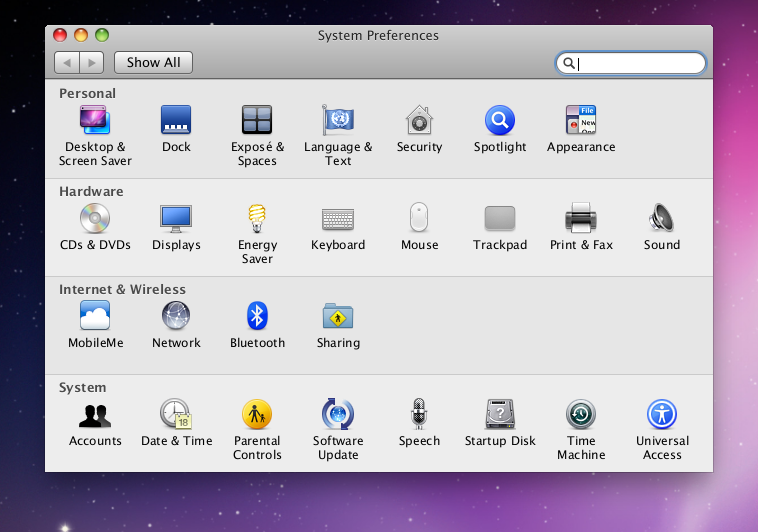
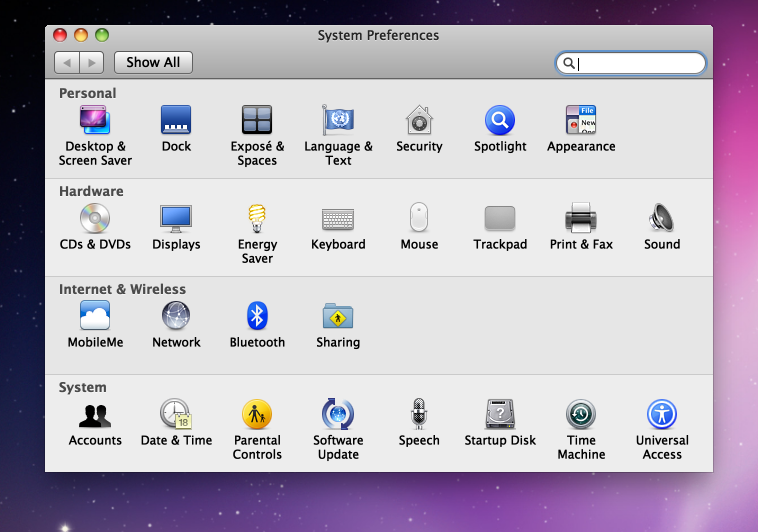
Text as Quartz draws it: the font smoothing dilation
From CoreGraphics: the default smoothing style on an LCD (AppleFontSmoothing
2) dilates the unhinted outlines by 0.0121 of the size across and 0.015125
up, 0.3 pixel at most; path_dilator_iterate moves each segment by its
direction. Done on the flattened outlines in AquaKit (cairo) and in the
shell's Qt programs (Aqua::drawText). Grey antialiasing still: the LCD
coverage and its blending are not read yet.

diff --git a/shell/src/aquakit/text.cpp b/shell/src/aquakit/text.cpp
@@ -3,7 +3,9 @@
 
 #include <pango/pangocairo.h>
 
+#include <algorithm>
 #include <cmath>
+#include <vector>
 
 namespace AK {
 
@@ -41,6 +43,67 @@ PangoLayout *layout(const std::string &text, const Font &font)
     return l;
 }
 
+// The layout's glyphs at the current point, as Quartz draws them with font smoothing: unhinted
+// outlines, dilated (CGFontCreateGlyphBitmap32, with the medium smoothing style's
+// CGFontGetDilationParametersForStyle: 0.0121 and 0.015125 of the size, 0.3 pixel at most). The
+// dilation is path_dilator_iterate's: every segment of the outline is moved, across by the first
+// outwards (to the right when it goes up, to the left when it goes down) and, when it runs along the
+// top of a stroke, up by twice the second; those along the bottom stay.
+void showLayout(cairo_t *cr, PangoLayout *l, double size)
+{
+    const double dx = std::min(0.3, 0.0121 * size), dy = std::min(0.3, 0.015125 * size);
+    struct Point {
+        double x, y;
+    };
+    cairo_save(cr);
+    cairo_set_tolerance(cr, 0.02);
+    pango_cairo_layout_path(cr, l);
+    cairo_path_t *flat = cairo_copy_path_flat(cr);
+    cairo_new_path(cr);
+    std::vector<std::vector<Point>> contours;
+    for (int i = 0; i < flat->num_data; i += flat->data[i].header.length) {
+        const cairo_path_data_t *d = &flat->data[i];
+        if (d->header.type == CAIRO_PATH_MOVE_TO)
+            contours.push_back({{d[1].point.x, d[1].point.y}});
+        else if (d->header.type == CAIRO_PATH_LINE_TO && !contours.empty())
+            contours.back().push_back({d[1].point.x, d[1].point.y});
+    }
+    cairo_path_destroy(flat);
+    // the way the outer contours turn: as Quartz's own orientation pass leaves them
+    double area = 0;
+    for (std::vector<Point> &c : contours) {
+        if (c.size() > 1 && c.front().x == c.back().x && c.front().y == c.back().y)
+            c.pop_back();
+        for (size_t i = 0; i < c.size(); ++i) {
+            const Point &a = c[i], &b = c[(i + 1) % c.size()];
+            area += a.x * b.y - b.x * a.y;
+        }
+    }
+    for (std::vector<Point> &c : contours) {
+        if (area > 0)
+            std::reverse(c.begin(), c.end());
+        bool first = true;
+        for (size_t i = 0; i < c.size(); ++i) {
+            const Point &a = c[i], &b = c[(i + 1) % c.size()];
+            const double across = b.x - a.x, down = b.y - a.y;
+            if (across == 0 && down == 0)
+                continue;
+            const double ox = down < 0 ? dx : down > 0 ? -dx : 0, oy = across > 0 ? 0 : across < 0 ? -2 * dy : -dy;
+            if (first)
+                cairo_move_to(cr, a.x + ox, a.y + oy);
+            else
+                cairo_line_to(cr, a.x + ox, a.y + oy);
+            cairo_line_to(cr, b.x + ox, b.y + oy);
+            first = false;
+        }
+        if (!first)
+            cairo_close_path(cr);
+    }
+    cairo_set_fill_rule(cr, CAIRO_FILL_RULE_WINDING);
+    cairo_fill(cr);
+    cairo_restore(cr);
+}
+
 } // namespace
 
 double textWidth(const std::string &text, const Font &font)
@@ -76,11 +139,11 @@ void drawWrappedText(cairo_t *cr, const std::string &text, const Rect &r, const 
     if (st.engraved) {
         cairo_set_source_rgba(cr, 1, 1, 1, st.engravedAlpha);
         cairo_move_to(cr, r.x, r.y + 1);
-        pango_cairo_show_layout(cr, l);
+        showLayout(cr, l, st.font.size);
     }
     st.color.set(cr);
     cairo_move_to(cr, r.x, r.y);
-    pango_cairo_show_layout(cr, l);
+    showLayout(cr, l, st.font.size);
     cairo_restore(cr);
     g_object_unref(l);
 }
@@ -130,11 +193,11 @@ void drawText(cairo_t *cr, const std::string &text, const Rect &r, const TextSty
     if (st.engraved) {
         cairo_set_source_rgba(cr, 1, 1, 1, st.engravedAlpha);
         cairo_move_to(cr, x, y + 1);
-        pango_cairo_show_layout(cr, l);
+        showLayout(cr, l, st.font.size);
     }
     st.color.set(cr);
     cairo_move_to(cr, x, y);
-    pango_cairo_show_layout(cr, l);
+    showLayout(cr, l, st.font.size);
     cairo_restore(cr);
     g_object_unref(l);
 }

diff --git a/shell/src/common/aqua.cpp b/shell/src/common/aqua.cpp
@@ -8,7 +8,12 @@
 #include "x11.h"
 
 #include <QApplication>
+#include <QFontMetricsF>
 #include <QMenu>
+#include <QPainter>
+#include <QPainterPath>
+#include <algorithm>
+#include <cmath>
 
 namespace Aqua {
 
@@ -71,6 +76,78 @@ void prepareMenu(QMenu *menu)
             a->menu()->setProperty("aquaMenu", menu->property("aquaMenu"));
             prepareMenu(a->menu());
         }
+}
+
+// Quartz's dilation of a glyph's outline (path_dilator_iterate): every segment is moved, across by
+// dx outwards (to the right when it goes up, to the left when it goes down) and, when it runs along
+// the top of a stroke, up by twice dy; those along the bottom stay. The outer contours turn the way
+// Quartz's own orientation pass leaves them.
+static QPainterPath dilatedOutline(const QPainterPath &glyphs, qreal dx, qreal dy)
+{
+    constexpr qreal fine = 16;   // the curves flattened sixteen times finer than a pixel
+    QList<QPolygonF> contours = glyphs.toSubpathPolygons(QTransform::fromScale(fine, fine));
+    qreal area = 0;
+    for (QPolygonF &c : contours) {
+        if (c.size() > 1 && c.first() == c.last())
+            c.removeLast();
+        for (int i = 0; i < c.size(); ++i) {
+            const QPointF a = c[i], b = c[(i + 1) % c.size()];
+            area += a.x() * b.y() - b.x() * a.y();
+        }
+    }
+    QPainterPath out;
+    out.setFillRule(Qt::WindingFill);
+    for (QPolygonF c : contours) {
+        if (area > 0)
+            std::reverse(c.begin(), c.end());
+        QPolygonF moved;
+        for (int i = 0; i < c.size(); ++i) {
+            const QPointF a = c[i] / fine, b = c[(i + 1) % c.size()] / fine;
+            const qreal across = b.x() - a.x(), down = b.y() - a.y();
+            if (across == 0 && down == 0)
+                continue;
+            const QPointF by(down < 0 ? dx : down > 0 ? -dx : 0, across > 0 ? 0 : across < 0 ? -2 * dy : -dy);
+            moved << a + by << b + by;
+        }
+        if (moved.size() > 2) {
+            out.addPolygon(moved);
+            out.closeSubpath();
+        }
+    }
+    return out;
+}
+
+void drawText(QPainter &p, const QRectF &rect, int flags, const QString &text)
+{
+    QString line = text;
+    if (flags & Qt::TextShowMnemonic)
+        line.remove(QLatin1Char('&'));
+    if (line.isEmpty())
+        return;
+    QFont font = p.font();
+    font.setHintingPreference(QFont::PreferNoHinting);
+    const QFontMetricsF fm(font);
+    const qreal width = fm.horizontalAdvance(line), height = fm.ascent() + fm.descent();
+    qreal x = rect.left();
+    if (flags & Qt::AlignHCenter)
+        x = rect.left() + (rect.width() - width) / 2;
+    else if (flags & Qt::AlignRight)
+        x = rect.right() - width;
+    qreal top = rect.top();
+    if (flags & Qt::AlignVCenter)
+        top = rect.top() + (rect.height() - height) / 2;
+    else if (flags & Qt::AlignBottom)
+        top = rect.bottom() - height;
+    const qreal baseline = std::round(top + fm.ascent());
+
+    QPainterPath glyphs;
+    glyphs.addText(QPointF(x, baseline), font, line);
+    const qreal size = font.pixelSize() > 0 ? font.pixelSize() : fm.height();
+    const QPainterPath dilated = dilatedOutline(glyphs, qMin(0.3, 0.0121 * size), qMin(0.3, 0.015125 * size));
+    p.save();
+    p.setRenderHint(QPainter::Antialiasing);
+    p.fillPath(dilated, p.pen().color());
+    p.restore();
 }
 
 } // namespace Aqua

diff --git a/shell/src/dock/stack.cpp b/shell/src/dock/stack.cpp
@@ -1,4 +1,5 @@
 // SPDX-License-Identifier: LGPL-2.1-or-later
+#include "aqua.h"
 #include "stack.h"
 
 #include "assets.h"
@@ -510,7 +511,7 @@ void Popup::paintFan(QPainter &p)
         lozenge.addRoundedRect(c.label, 11, 11);
         p.fillPath(lozenge, i == m_hover ? QColor(30, 80, 190, 235) : QColor(28, 28, 28, 200));
         p.setPen(Qt::white);
-        p.drawText(c.label.adjusted(10, 0, -10, 0), Qt::AlignVCenter | Qt::AlignHCenter,
+        Aqua::drawText(p, c.label.adjusted(10, 0, -10, 0), Qt::AlignVCenter | Qt::AlignHCenter,
                    QFontMetrics(font()).elidedText(c.item.name, Qt::ElideMiddle, int(c.label.width() - 16)));
         if (!c.image.isNull())
             p.drawImage(c.icon, c.image);
@@ -555,11 +556,11 @@ void Popup::paintGrid(QPainter &p)
     QFont title = Assets::uiFont(13, true);
     p.setFont(title);
     p.setPen(Qt::white);
-    p.drawText(QRectF(Inset, Inset + 2, W - 2 * Inset, 24), Qt::AlignCenter, name(m_folder));
+    Aqua::drawText(p, QRectF(Inset, Inset + 2, W - 2 * Inset, 24), Qt::AlignCenter, name(m_folder));
     p.setFont(font());
     if (!m_backButton.isNull()) {
         p.setPen(QColor(255, 255, 255, 220));
-        p.drawText(m_backButton, Qt::AlignVCenter | Qt::AlignLeft, QString::fromUtf8("◀ ") + name(m_root));
+        Aqua::drawText(p, m_backButton, Qt::AlignVCenter | Qt::AlignLeft, QString::fromUtf8("◀ ") + name(m_root));
     }
     // the items, scrolled inside the body
     p.save();
@@ -590,9 +591,9 @@ void Popup::paintGrid(QPainter &p)
             second = fm.elidedText(text.mid(cut), Qt::ElideMiddle, int(cell.label.width()));
             text = text.left(cut).trimmed();
         }
-        p.drawText(QRectF(cell.label.left(), cell.label.top(), cell.label.width(), 14), Qt::AlignHCenter | Qt::AlignTop, text);
+        Aqua::drawText(p, QRectF(cell.label.left(), cell.label.top(), cell.label.width(), 14), Qt::AlignHCenter | Qt::AlignTop, text);
         if (!second.isEmpty())
-            p.drawText(QRectF(cell.label.left(), cell.label.top() + 14, cell.label.width(), 14), Qt::AlignHCenter | Qt::AlignTop, second);
+            Aqua::drawText(p, QRectF(cell.label.left(), cell.label.top() + 14, cell.label.width(), 14), Qt::AlignHCenter | Qt::AlignTop, second);
     }
     p.restore();
     // the scroller's thumb on the right when it scrolls
@@ -610,7 +611,7 @@ void Popup::paintGrid(QPainter &p)
     const bool hot = m_hover == -2;
     p.setPen(hot ? Qt::white : QColor(255, 255, 255, 200));
     const QString open = Assets::tr("/System/Library/CoreServices/Dock.app", "Localizable", "SHOW_IN_FINDER", "Open in Finder");
-    p.drawText(m_finderButton.adjusted(0, 0, -24, 0), Qt::AlignVCenter | Qt::AlignRight, open);
+    Aqua::drawText(p, m_finderButton.adjusted(0, 0, -24, 0), Qt::AlignVCenter | Qt::AlignRight, open);
     // the Dock's openinfinder art: the curved arrow in its circle
     static const QImage arrow = piece("openinfinder.png").scaled(48, 48, Qt::IgnoreAspectRatio, Qt::SmoothTransformation);
     p.setRenderHint(QPainter::SmoothPixmapTransform);

diff --git a/shell/src/common/aquastyle.cpp b/shell/src/common/aquastyle.cpp
@@ -1,4 +1,5 @@
 // SPDX-License-Identifier: LGPL-2.1-or-later
+#include "aqua.h"
 #include "aquastyle.h"
 
 #include "artfile.h"
@@ -307,11 +308,11 @@ void AquaStyle::drawControl(ControlElement ce, const QStyleOption *opt, QPainter
         p->setPen(text);
         p->setFont(mi->font);
         if (mi->checked)
-            p->drawText(QRect(r.left() + 6, r.top(), 14, r.height()), Qt::AlignCenter, QString::fromUtf8("✓"));
+            Aqua::drawText(*p, QRect(r.left() + 6, r.top(), 14, r.height()), Qt::AlignCenter, QString::fromUtf8("✓"));
         const QString label = mi->text.section('\t', 0, 0), shortcut = mi->text.section('\t', 1);
-        p->drawText(r.adjusted(21, 0, -20, 0), Qt::AlignVCenter | Qt::AlignLeft | Qt::TextShowMnemonic, label);
+        Aqua::drawText(*p, r.adjusted(21, 0, -20, 0), Qt::AlignVCenter | Qt::AlignLeft | Qt::TextShowMnemonic, label);
         if (!shortcut.isEmpty())
-            p->drawText(r.adjusted(21, 0, -20, 0), Qt::AlignVCenter | Qt::AlignRight, shortcut);
+            Aqua::drawText(*p, r.adjusted(21, 0, -20, 0), Qt::AlignVCenter | Qt::AlignRight, shortcut);
         if (mi->menuItemType == QStyleOptionMenuItem::SubMenu) {
             // the submenu's triangle
             p->save();
@@ -357,7 +358,7 @@ void AquaStyle::drawControl(ControlElement ce, const QStyleOption *opt, QPainter
         if (!tab)
             break;
         p->setPen((opt->state & State_Enabled) ? Qt::black : QColor(0, 0, 0, 100));
-        p->drawText(opt->rect.adjusted(0, -1, 0, -1), Qt::AlignCenter, tab->text);
+        Aqua::drawText(*p, opt->rect.adjusted(0, -1, 0, -1), Qt::AlignCenter, tab->text);
         return;
     }
     default:

diff --git a/shell/src/menubar/menubar.cpp b/shell/src/menubar/menubar.cpp
@@ -265,17 +265,17 @@ void MenuBar::paintEvent(QPaintEvent *)
             QFont f = Assets::uiFont(17);
             p.setFont(f);
             p.setPen(open ? Qt::white : Qt::black);
-            p.drawText(i.rect.adjusted(0, -1, 0, -1), Qt::AlignCenter, QString(QChar(0xF8FF)));
+            Aqua::drawText(p, i.rect.adjusted(0, -1, 0, -1), Qt::AlignCenter, QString(QChar(0xF8FF)));
             continue;
         }
         p.setFont(i.bold ? Assets::uiFont(14, true) : font());
         // the engraved white under the text, as on the Mac
         if (!open) {
             p.setPen(QColor(255, 255, 255, 140));
-            p.drawText(i.rect.translated(0, 1).adjusted(0, 0, 0, -1), Qt::AlignCenter, i.title);
+            Aqua::drawText(p, i.rect.translated(0, 1).adjusted(0, 0, 0, -1), Qt::AlignCenter, i.title);
         }
         p.setPen(open ? Qt::white : Qt::black);
-        p.drawText(i.rect.adjusted(0, 0, 0, -1), Qt::AlignCenter, i.title);
+        Aqua::drawText(p, i.rect.adjusted(0, 0, 0, -1), Qt::AlignCenter, i.title);
     }
 }
 

diff --git a/shell/src/common/aqua.h b/shell/src/common/aqua.h
@@ -3,8 +3,12 @@
 // selection gradient) and the X11 platform.
 #pragma once
 
+#include <QRectF>
+#include <QString>
+
 class QApplication;
 class QMenu;
+class QPainter;
 
 namespace Aqua {
 
@@ -14,5 +18,11 @@ void preinit();
 void init(QApplication &app);
 // A popup menu of the shell's: its window type, its translucency when a compositor runs.
 void prepareMenu(QMenu *menu);
+// One line of text in the painter's font and pen colour, as QPainter::drawText places it (the
+// alignment flags, Qt::TextShowMnemonic), drawn as Quartz draws it with font smoothing: unhinted
+// outlines, dilated (0.0121 of the size on each side, 2 × 0.015125 at the top, 0.3 pixel at most:
+// CoreGraphics' CGFontGetDilationParametersForStyle and path_dilator_iterate), the baseline on a
+// whole pixel.
+void drawText(QPainter &p, const QRectF &rect, int flags, const QString &text);
 
 } // namespace Aqua

diff --git a/shell/src/windowserver/windowserver.cpp b/shell/src/windowserver/windowserver.cpp
@@ -1,4 +1,5 @@
 // SPDX-License-Identifier: LGPL-2.1-or-later
+#include "aqua.h"
 #include "windowserver.h"
 
 #include "artfile.h"
@@ -487,9 +488,9 @@ void WindowServer::paintTitle(Client *c)
         }
         QRect r(x + iconRoom, 0, w - x - iconRoom, th - 1);
         p.setPen(QColor(255, 255, 255, 120));
-        p.drawText(r.translated(0, 1), Qt::AlignLeft | Qt::AlignVCenter, text);
+        Aqua::drawText(p, r.translated(0, 1), Qt::AlignLeft | Qt::AlignVCenter, text);
         p.setPen(active ? QColor(0x26, 0x26, 0x26) : QColor(0x7F, 0x7F, 0x7F));
-        p.drawText(r, Qt::AlignLeft | Qt::AlignVCenter, text);
+        Aqua::drawText(p, r, Qt::AlignLeft | Qt::AlignVCenter, text);
     }
     // to the frame, a band of rows at a time within the request's limit
     const uint32_t maxBytes = xcb_get_maximum_request_length(m_conn) * 4 - 64;

diff --git a/shell/src/menubar/extras.cpp b/shell/src/menubar/extras.cpp
@@ -70,7 +70,7 @@ int ClockExtra::width(const QFontMetrics &fm) const { return fm.horizontalAdvanc
 void ClockExtra::paint(QPainter &p, const QRect &r, bool highlighted)
 {
     p.setPen(highlighted ? Qt::white : Qt::black);
-    p.drawText(r, Qt::AlignCenter, text());
+    Aqua::drawText(p, r, Qt::AlignCenter, text());
 }
 
 QMenu *ClockExtra::menu()
@@ -142,7 +142,7 @@ void VolumeExtra::paint(QPainter &p, const QRect &r, bool highlighted)
         return;
     }
     p.setPen(highlighted ? Qt::white : Qt::black);
-    p.drawText(r, Qt::AlignCenter, QString::fromUtf8("♪"));
+    Aqua::drawText(p, r, Qt::AlignCenter, QString::fromUtf8("♪"));
 }
 
 QWidget *VolumeExtra::popup()

diff --git a/shell/src/aquakit/text.h b/shell/src/aquakit/text.h
@@ -1,6 +1,7 @@
 // SPDX-License-Identifier: LGPL-2.1-or-later
 // Text as AppKit sets it on 10.6: Lucida Grande (the DVD's), sizes in points (one point a pixel),
-// unhinted outlines with fractional advances, grey antialiasing.
+// unhinted outlines with fractional advances, dilated as Quartz's font smoothing dilates them, grey
+// antialiasing.
 #pragma once
 
 #include "graphics.h"

diff --git a/shell/src/dock/dock.cpp b/shell/src/dock/dock.cpp
@@ -509,7 +509,7 @@ void Dock::paintDock(QPainter &p)
         p.drawRoundedRect(label, h / 2, h / 2);
         p.setFont(f);
         p.setPen(Qt::white);
-        p.drawText(label, Qt::AlignCenter, t.label);
+        Aqua::drawText(p, label, Qt::AlignCenter, t.label);
     }
 }
 

diff --git a/docs/reverse-status.md b/docs/reverse-status.md
@@ -176,7 +176,7 @@ reversed from the x86_64 slice. The art is section 1's (ArtFile.bin, SArtFile.bi
 | Colours: 0x3E focus (75, 137, 208), 0x3F Graphite focus, 0xE1 / 0xE2 / 0xE3 the menus' fills and separator | `_CUIColorGet`, `kColorTable` | Done |
 | Controls from the art: push buttons, check boxes, radio buttons, popups and their menus, tabs and the tab pane, textured segments, the help button, the round search field, the image well, the vertical scroller (arrows together at the bottom), sliders, disclosure triangles | ArtFile.bin | Done |
 | The small square buttons (+ and - under lists), the colour well's bezel | AppKit draws them, not CoreUI | Partial: measured |
-| Text: Lucida Grande from the DVD, unhinted, fractional advances | pango, fontconfig | Done |
+| Text: Lucida Grande from the DVD, unhinted, fractional advances, the baseline on a whole pixel, and Quartz's font smoothing dilation. `get_font_rendering_defaults` reads `AppleFontSmoothing` (unset on an LCD: 2) into the smoothing style (1: 0x20, 2: 0x30, 3: 0x40); `CGFontGetDilationParametersForStyle` gives each style two fractions of the size (0x20: 0.007986 and 0.010043; 0x30, the default: 0.0121 and 0.015125; 0x40: 0.01694 and 0.02057; 0x10: none); `CGFontCreateGlyphBitmap32` scales them by the font matrix, 0.3 pixel at most each, and `path_dilator_iterate` moves every segment of the unhinted outline: across by the first outwards (by the direction it goes, up or down), and up by twice the second when it runs along the top of a stroke, those along the bottom staying. Done the same way on the flattened outlines for AquaKit (`text.cpp`, cairo) and the shell's Qt programs (`Aqua::drawText`) | CoreGraphics `get_font_rendering_defaults` (0x5d19), `CGFontGetDilationParametersForStyle` (0x17b7be), `CGFontCreateGlyphBitmap32` (0x17827d, the 0.3 at 0x6471c0), `path_dilator_iterate` (0x5ec4b9); pango, fontconfig | Done in grey. Missing: the LCD (subpixel) coverage of `CGSScanconverterRenderMask`, 16 bits a pixel, and its blending and contrast in libRIP (not read); the glyph positions' quantization (`CGFontGetQuantizationLevel`: a quarter of a pixel at most); Qt widgets drawn by Qt itself |
 | System Preferences ▸ Desktop & Screen Saver on AquaKit, checked against a 10.6 screenshot (1440 x 900 scaled to 1280): the sources' rows 20 points, the grid 82.6 x 55 from (10, 7), the search field holding the keyboard when the window opens | measured | Done |
 | Wayland: xdg-shell windows in shared memory, menus as `xdg_popup`s with their grab, the keyboard through xkbcommon with its repeat; 10.6's title bar drawn by AquaKit as WindowServer draws it (the unified gradient, CoreUI's titlebarcontrols, moving by `xdg_toplevel.move`). `AQUAKIT_CAPTURE=file.png` writes each frame, for checking without a screen | | Done (window and screen saver checked on a headless KWin; menus and typing not driven there) |
 | The colour panel (the well opens a menu of the Solid Colors collection's colours), the open panel (+ asks zenity or kdialog) | | Partial |

diff --git a/README.md b/README.md
@@ -57,6 +57,9 @@ It follows the same idea as Winedows' native shell (XP) and the Aqua session of 
 **AquaKit** is a small AppKit without Qt: AppKit's skeleton on cairo and pango, with controls
 drawn by CoreUI's own renderer (reversed), on Wayland or X11.
 
+**Text** is drawn as Quartz draws it: Lucida Grande's unhinted outlines, made heavier by Quartz's
+own font smoothing dilation (reversed from CoreGraphics), which gives 10.6's text its weight.
+
 <div align="center">
 <table>
 <tr>
